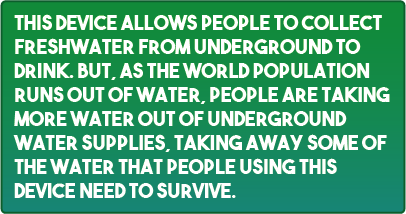
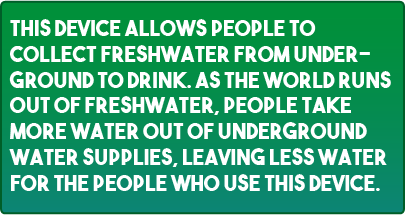
Aquifer implementation + fixed descriptions

diff --git a/src/Learn.java b/src/Learn.java
@@ -27,7 +27,7 @@ import javafx.stage.Stage;
  * May 20:
  * Vansh implemented Learn as an AniamtedImage where an arrow is pressed to move forward in the animation, and a menu button to go back.
  * May 24:
- * Vansh removed the AnimatedImage completely, and remade the animation in JavaFX using Image view Objects for the washer, barrel, watering can, shower head, tub, dish washer, hand washing, hose, and the sink. If statements and variables were
+ * Vansh removed the AnimatedImage completely, and remade the animation in JavaFX using Image view Objects for the washer, barrel, watering can, shower head, tub, dish washer, hand washing, hose, aquifer, and the sink. If statements and variables were
  * also made to allow wrapping around when moving too far to the right of the conveyor belt.
  * May 25:
  * Vansh made the Event properties to make the cursor change to a click hand when hovering over the right arrow button.
@@ -42,7 +42,7 @@ import javafx.stage.Stage;
  * June 2:
  * Vansh fixed bug where done boolean became true before user finished matching all descriptions, and added button to go to Quiz when finished matching descriptions.
  * June 8:
- * Vansh added sounds for right, wrong, and device navigation.
+ * Vansh implemented the aquifer device, and added sounds for right, wrong, and device navigation.
  * </pre>
  */
 public class Learn extends Window {
@@ -108,9 +108,9 @@ public class Learn extends Window {
     public void display()
     {
         // This is a boolean Array storing which devices have had their descriptions matched properly
-        boolean[] states = new boolean[11];
+        boolean[] states = new boolean[12];
         // This is an ImageView array holding the descriptions of all the devices.
-        ImageView[] descriptions = {(ImageView)(Resources.get("washerD")), (ImageView)(Resources.get("barrelD")), (ImageView)(Resources.get("canD")), (ImageView)(Resources.get("showerD")) , (ImageView)(Resources.get("iceD")), (ImageView)(Resources.get("wellD")), (ImageView)(Resources.get("tubD")), (ImageView)(Resources.get("dwasherD")), (ImageView)(Resources.get("dishD")), (ImageView)(Resources.get("hoseD")), (ImageView)(Resources.get("sinkD"))};
+        ImageView[] descriptions = {(ImageView)(Resources.get("washerD")), (ImageView)(Resources.get("barrelD")), (ImageView)(Resources.get("canD")), (ImageView)(Resources.get("showerD")) , (ImageView)(Resources.get("iceD")), (ImageView)(Resources.get("wellD")), (ImageView)(Resources.get("tubD")), (ImageView)(Resources.get("dwasherD")), (ImageView)(Resources.get("dishD")), (ImageView)(Resources.get("hoseD")), (ImageView)(Resources.get("aquiferD")), (ImageView)(Resources.get("sinkD"))};
 
         // buttons
         ImageView menuBtn = (ImageView)(Resources.get("menuBtn"));
@@ -124,7 +124,7 @@ public class Learn extends Window {
         ImageView quiz = (ImageView)(Resources.get("learnQuiz"));
 
         // conveyor belt item Images
-        ImageView hose2 = (ImageView)(Resources.get("learnHose2"));
+        ImageView aquifer2 = (ImageView)(Resources.get("learnAquifer2"));
         ImageView sink2 = (ImageView)(Resources.get("learnSink2"));
         ImageView washer = (ImageView)(Resources.get("learnWasher"));
         ImageView barrel = (ImageView)(Resources.get("learnBarrel"));
@@ -137,6 +137,7 @@ public class Learn extends Window {
         ImageView dish = (ImageView)(Resources.get("learnDish"));
         ImageView hose = (ImageView)(Resources.get("learnHose"));
         ImageView sink = (ImageView)(Resources.get("learnSink"));
+        ImageView aquifer = (ImageView)(Resources.get("learnAquifer"));
         ImageView washer2 = (ImageView)(Resources.get("learnWasher2"));
         ImageView barrel2 = (ImageView)(Resources.get("learnBarrel2"));
 
@@ -150,7 +151,7 @@ public class Learn extends Window {
             hideStage();
         });
         learnLeft.setOnMouseClicked(e -> {
-            if (times > 0 && times < 12)
+            if (times > 0 && times < 13)
                 remove(descriptions[times-1]);
             if (go != -1) {
                 go = -1;
@@ -166,13 +167,13 @@ public class Learn extends Window {
             click.play();
         });
         learnRight.setOnMouseClicked(e -> {
-            if (times > 0 && times < 12)
+            if (times > 0 && times < 13)
                 remove(descriptions[times-1]);
             if (go != 1) {
                 go = 1;
                 times++;
             }
-            if (times < 11 && states[times-1]) {
+            if (times < 12 && states[times-1]) {
                 remove(learnCheck);
                 drawImage(learnScreen, 284, 523);
             } else {
@@ -238,8 +239,8 @@ public class Learn extends Window {
                 // if not done...
                 if (!done) {
                     // ...while a current description is not set, set one at random until the one selected is not of state done.
-                    while (current == -1 && numDone < 11) {
-                        int tmp = (int) (Math.random() * 11);
+                    while (current == -1 && numDone < 12) {
+                        int tmp = (int) (Math.random() * 12);
                         if (!states[tmp])
                             current = tmp;
                     }
@@ -258,7 +259,7 @@ public class Learn extends Window {
                 // if conveyor belt is moving left, draw the proper images in the correct spots, and remove any that are not needed.
                 if (go == 1) {
                     xtime += 12;
-                    if (times == 1 && xtime >= 300 || times == 2 && xtime >= 550 || times == 3 && xtime >= 850 || times == 4 && xtime >= 1170 || times == 5 && xtime >= 1550 || times == 6 && xtime >= 1910 || times == 7 && xtime >= 2310 || times == 8 && xtime >= 2750 || times == 9 && xtime >= 3050 || times == 10 && xtime >= 3310 || times == 11 && xtime >= 3600) {
+                    if (times == 1 && xtime >= 300 || times == 2 && xtime >= 550 || times == 3 && xtime >= 850 || times == 4 && xtime >= 1170 || times == 5 && xtime >= 1550 || times == 6 && xtime >= 1910 || times == 7 && xtime >= 2310 || times == 8 && xtime >= 2750 || times == 9 && xtime >= 3050 || times == 10 && xtime >= 3310 || times == 11 && xtime >= 3550 || times == 12 && xtime >= 3810) {
                         go = 0;
                         if (states[times-1]) {
                             drawImage(descriptions[times - 1], -13, 256);
@@ -270,7 +271,7 @@ public class Learn extends Window {
                 // if conveyor belt is moving right, draw the proper images in the right spots, and remove any that are not needed.
                 } else if (go == -1) {
                     xtime -= 12;
-                    if (times == 1 && xtime <= 300 || times == 2 && xtime <= 550 || times == 3 && xtime <= 850 || times == 4 && xtime <= 1170 || times == 5 && xtime <= 1550 || times == 6 && xtime <= 1910 || times == 7 && xtime <= 2310 || times == 8 && xtime <= 2750 || times == 9 && xtime <= 3050 || times == 10 && xtime <= 3310 || times == 11 && xtime <= 3600) {
+                    if (times == 1 && xtime <= 300 || times == 2 && xtime <= 550 || times == 3 && xtime <= 850 || times == 4 && xtime <= 1170 || times == 5 && xtime <= 1550 || times == 6 && xtime <= 1910 || times == 7 && xtime <= 2310 || times == 8 && xtime <= 2750 || times == 9 && xtime <= 3050 || times == 10 && xtime <= 3310 || times == 11 && xtime <= 3550 || times == 12 && xtime <= 3810) {
                         go = 0;
                         if (states[times-1]) {
                             drawImage(descriptions[times - 1], -13, 256);
@@ -282,7 +283,7 @@ public class Learn extends Window {
                 }
 
                 // remove all device images, and redraw them at the right position.
-                remove(hose2);
+                remove(aquifer2);
                 remove(sink2);
                 remove(washer);
                 remove(barrel);
@@ -294,10 +295,11 @@ public class Learn extends Window {
                 remove(dwasher);
                 remove(dish);
                 remove(hose);
+                remove(aquifer);
                 remove(sink);
                 remove(washer2);
                 remove(barrel2);
-                drawImage(hose2, -990-xtime, 0);
+                drawImage(aquifer2, -960-xtime, -30);
                 drawImage(sink2, -700-xtime, 0);
                 drawImage(washer, 290-xtime, -50);
                 drawImage(barrel, 540-xtime, -30);
@@ -309,18 +311,19 @@ public class Learn extends Window {
                 drawImage(dwasher, 2740-xtime, -30);
                 drawImage(dish, 3040-xtime, -30);
                 drawImage(hose, 3300-xtime, 0);
-                drawImage(sink, 3590-xtime, 0);
-                drawImage(washer2, 4600-xtime, -50);
-                drawImage(barrel2, 4850-xtime, -30);
+                drawImage(aquifer, 3540-xtime, -30);
+                drawImage(sink, 3800-xtime, 0);
+                drawImage(washer2, 4810-xtime, -50);
+                drawImage(barrel2, 5060-xtime, -30);
 
                 // wrap around when moving conveyor belt to the left.
-                if (xtime >= 4310) {
+                if (xtime >= 4520) {
                     xtime = 0;
                     times = 1;
                 // wrap around when moving conveyor belt to the right.
                 } else if (xtime <= -450) {
-                    xtime = 3840;
-                    times = 11;
+                    xtime = 4050;
+                    times = 12;
                 }
 
                 // if done matching all descriptions, show button to move on to quiz screen.

diff --git a/src/SplashScreen.java b/src/SplashScreen.java
@@ -167,7 +167,7 @@ public class SplashScreen extends Window
                     Resources.add("learnWrong", new ImageView ("elements/game/learnWrong.png"));
                     Resources.add("learnQuiz", new ImageView ("elements/game/learnQuiz.png"));
 
-                    Resources.add("learnHose2", new ImageView ("elements/game/learnHose.png"));
+                    Resources.add("learnAquifer2", new ImageView ("elements/game/learnAquifer.png"));
                     Resources.add("learnSink2", new ImageView ("elements/game/learnSink.png"));
                     Resources.add("learnWasher", new ImageView ("elements/game/learnWasher.png"));
                     Resources.add("learnBarrel", new ImageView ("elements/game/learnBarrel.png"));
@@ -179,6 +179,7 @@ public class SplashScreen extends Window
                     Resources.add("learnDWasher", new ImageView ("elements/game/learnDWasher.png"));
                     Resources.add("learnDish", new ImageView ("elements/game/learnDish.png"));
                     Resources.add("learnHose", new ImageView ("elements/game/learnHose.png"));
+                    Resources.add("learnAquifer", new ImageView ("elements/game/learnAquifer.png"));
                     Resources.add("learnSink", new ImageView ("elements/game/learnSink.png"));
                     Resources.add("learnWasher2", new ImageView ("elements/game/learnWasher.png"));
                     Resources.add("learnBarrel2", new ImageView ("elements/game/learnBarrel.png"));
@@ -193,6 +194,7 @@ public class SplashScreen extends Window
                     Resources.add("dwasherD", new ImageView ("elements/game/descriptions/dwasher.png"));
                     Resources.add("dishD", new ImageView ("elements/game/descriptions/dish.png"));
                     Resources.add("hoseD", new ImageView ("elements/game/descriptions/hose.png"));
+                    Resources.add("aquiferD", new ImageView ("elements/game/descriptions/aquifer.png"));
                     Resources.add("sinkD", new ImageView ("elements/game/descriptions/sink.png"));
 
                     Resources.add("checkBack", new Image("elements/game/checkBack.png"));

diff --git a/src/Game.java b/src/Game.java
@@ -56,6 +56,8 @@ import java.util.ArrayList;
  * June 6:
  * Maria modifed the SCORE_FILE variable to store the location of the User's Desktop folder, to write the high scores file there. She also created the SCORES_FILE_BACKUP to store the original file location,
  * which will be used in the case that the user has blocked access to their Desktop. She also changed the win method to try and write to the Desktop first, and if that fails, to write to the user's home directory.
+ * June 8:
+ * Vansh adjusted the call to avatarImg.isTouchingDevice() in order to make collision detection more accurate
  * </pre>
  */
 public class Game extends Window {
@@ -522,9 +524,10 @@ public class Game extends Window {
 
                 // background image clears canvas
                 drawImage(lakeBackground, 0, 0);
+                // draws the correct background depending on the lake being played, and correct position based on whether winning animation is playing
                 if (level == 1)
                     if (won == 0)
-                        drawImage(cityBack, 480 - (int) (t * 3), 249); //draws the correct backgground depending on the lake being played, and correct position based on whether winning animation is playing
+                        drawImage(cityBack, 480 - (int) (t * 3), 249);
                     else
                         drawImage(cityBack, 480 - (int) (won * 3), 249);
                 else if (level == 2)
